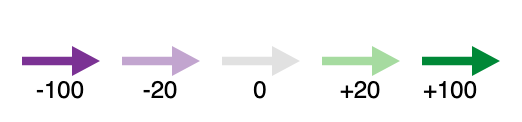
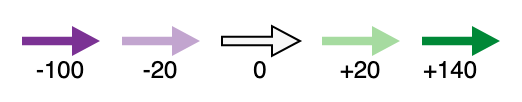
update the minimum reward

Changed region(s): [[0.0307, 0.2353, 0.5824, 0.8235], [0.7969, 0.2647, 0.9808, 0.8235], [0.613, 0.2647, 0.7663, 0.8235]]

diff --git a/frontend/src/components/Tutorial/TutorialTip/TutorialTooltipContent.ts b/frontend/src/components/Tutorial/TutorialTip/TutorialTooltipContent.ts
@@ -27,7 +27,7 @@ export const tutorialTooltipContent = [
     {
         id: "practice_timer",
         title: "Time Constraint",
-        text: "In the actual experiment, you will have limited time to solve each network. If you run out of time, you will receive -140 points for each missing move.",
+        text: "In the actual experiment, you will have limited time to solve each network. If you run out of time, you will receive -100 points for each missing move.",
         tip: "Time Constraint",
     },
     {

diff --git a/frontend/src/components/Trials/IndividualTrial/IndividualTrial.tsx b/frontend/src/components/Trials/IndividualTrial/IndividualTrial.tsx
@@ -25,7 +25,7 @@ export interface IndividualTrialInterface extends DynamicNetworkInterface {
 }
 
 const IndividualTrial: React.FC<IndividualTrialInterface> = (props) => {
-    const {timer = 25, maxSteps = 8, incompleteTrialPunishment = -140} = props;
+    const {timer = 25, maxSteps = 8, incompleteTrialPunishment = -100} = props;
     const {
         step,
         points,
